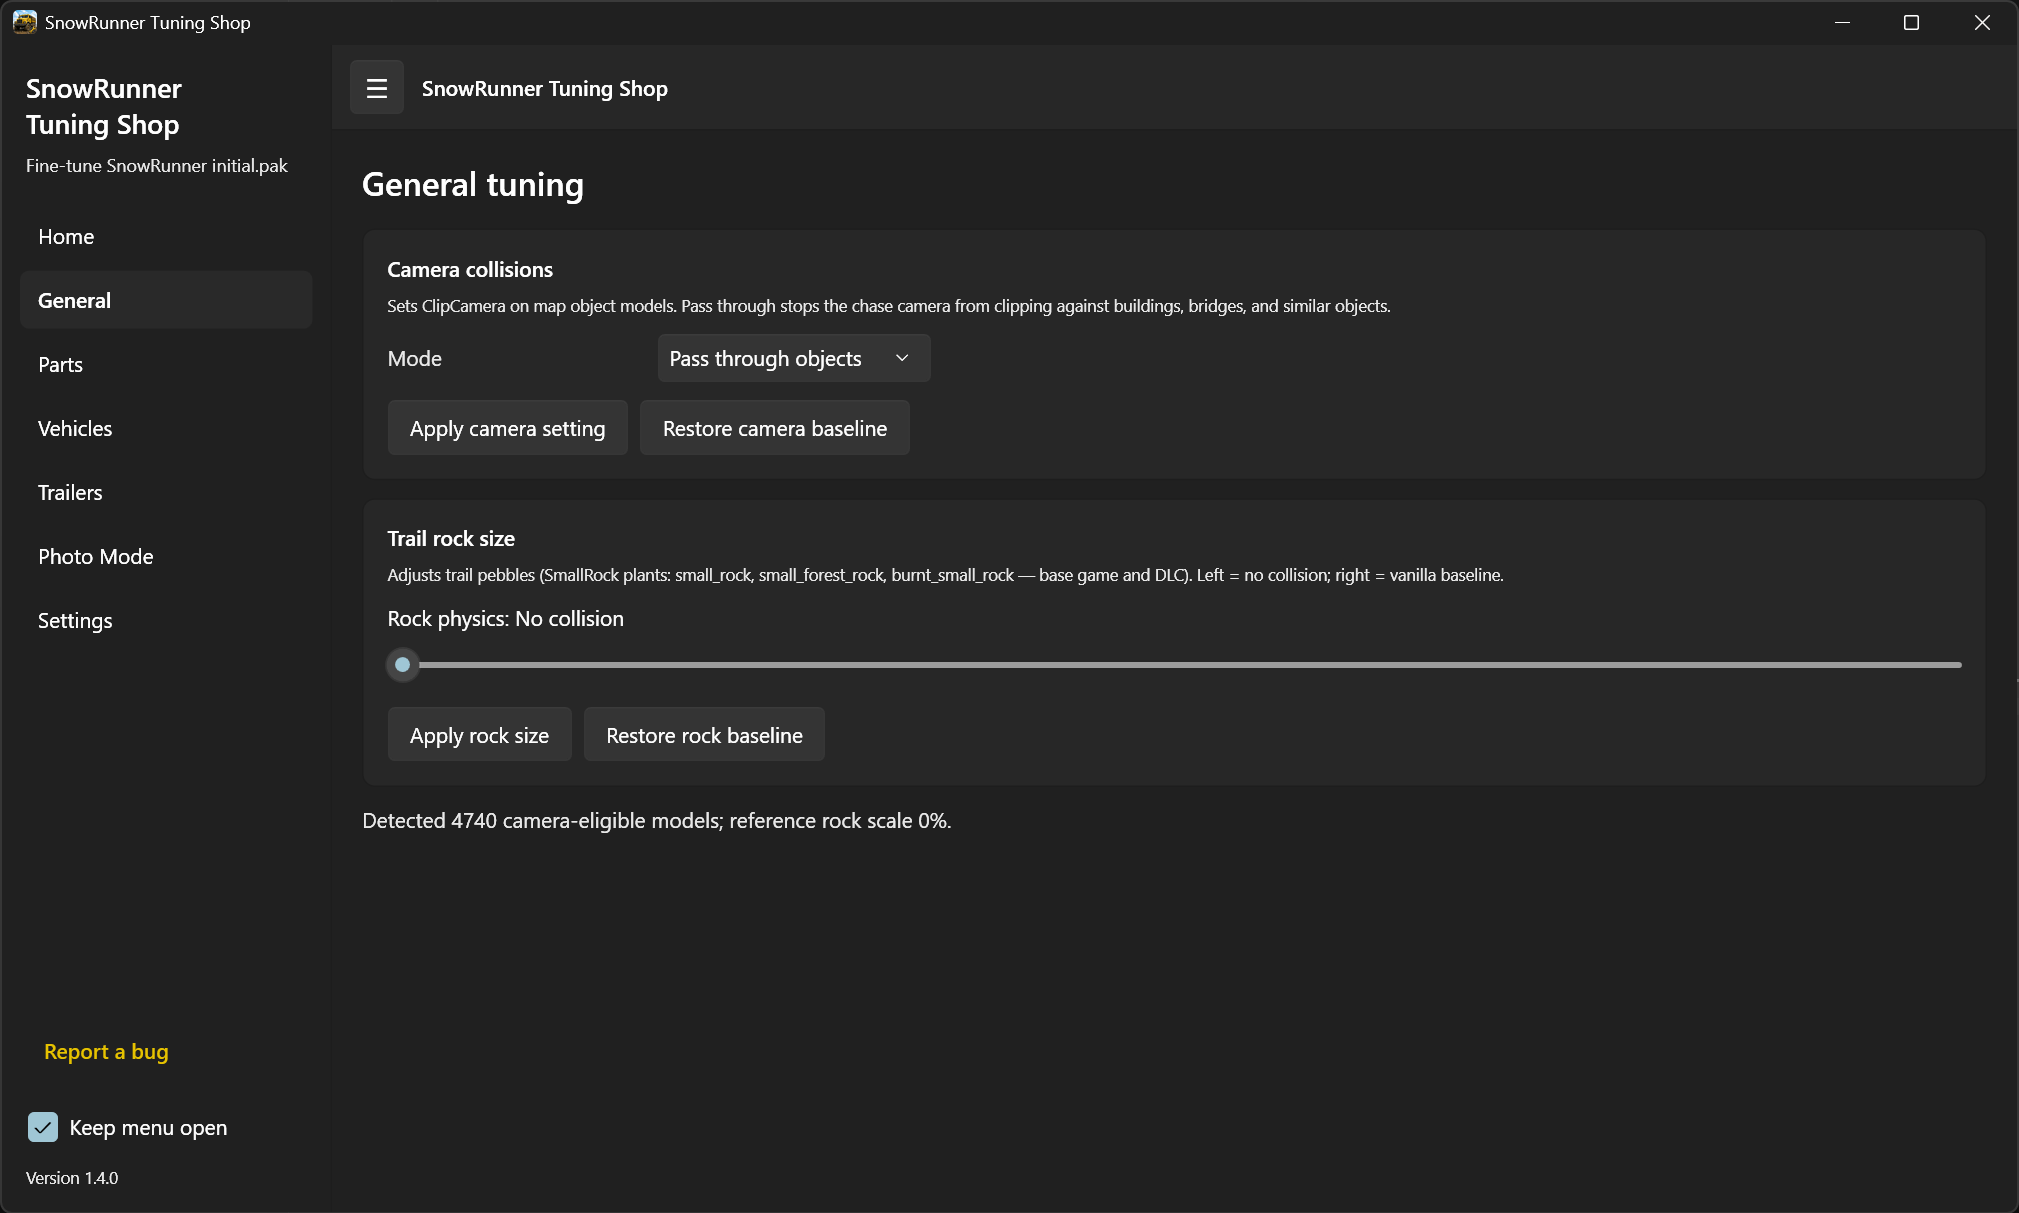
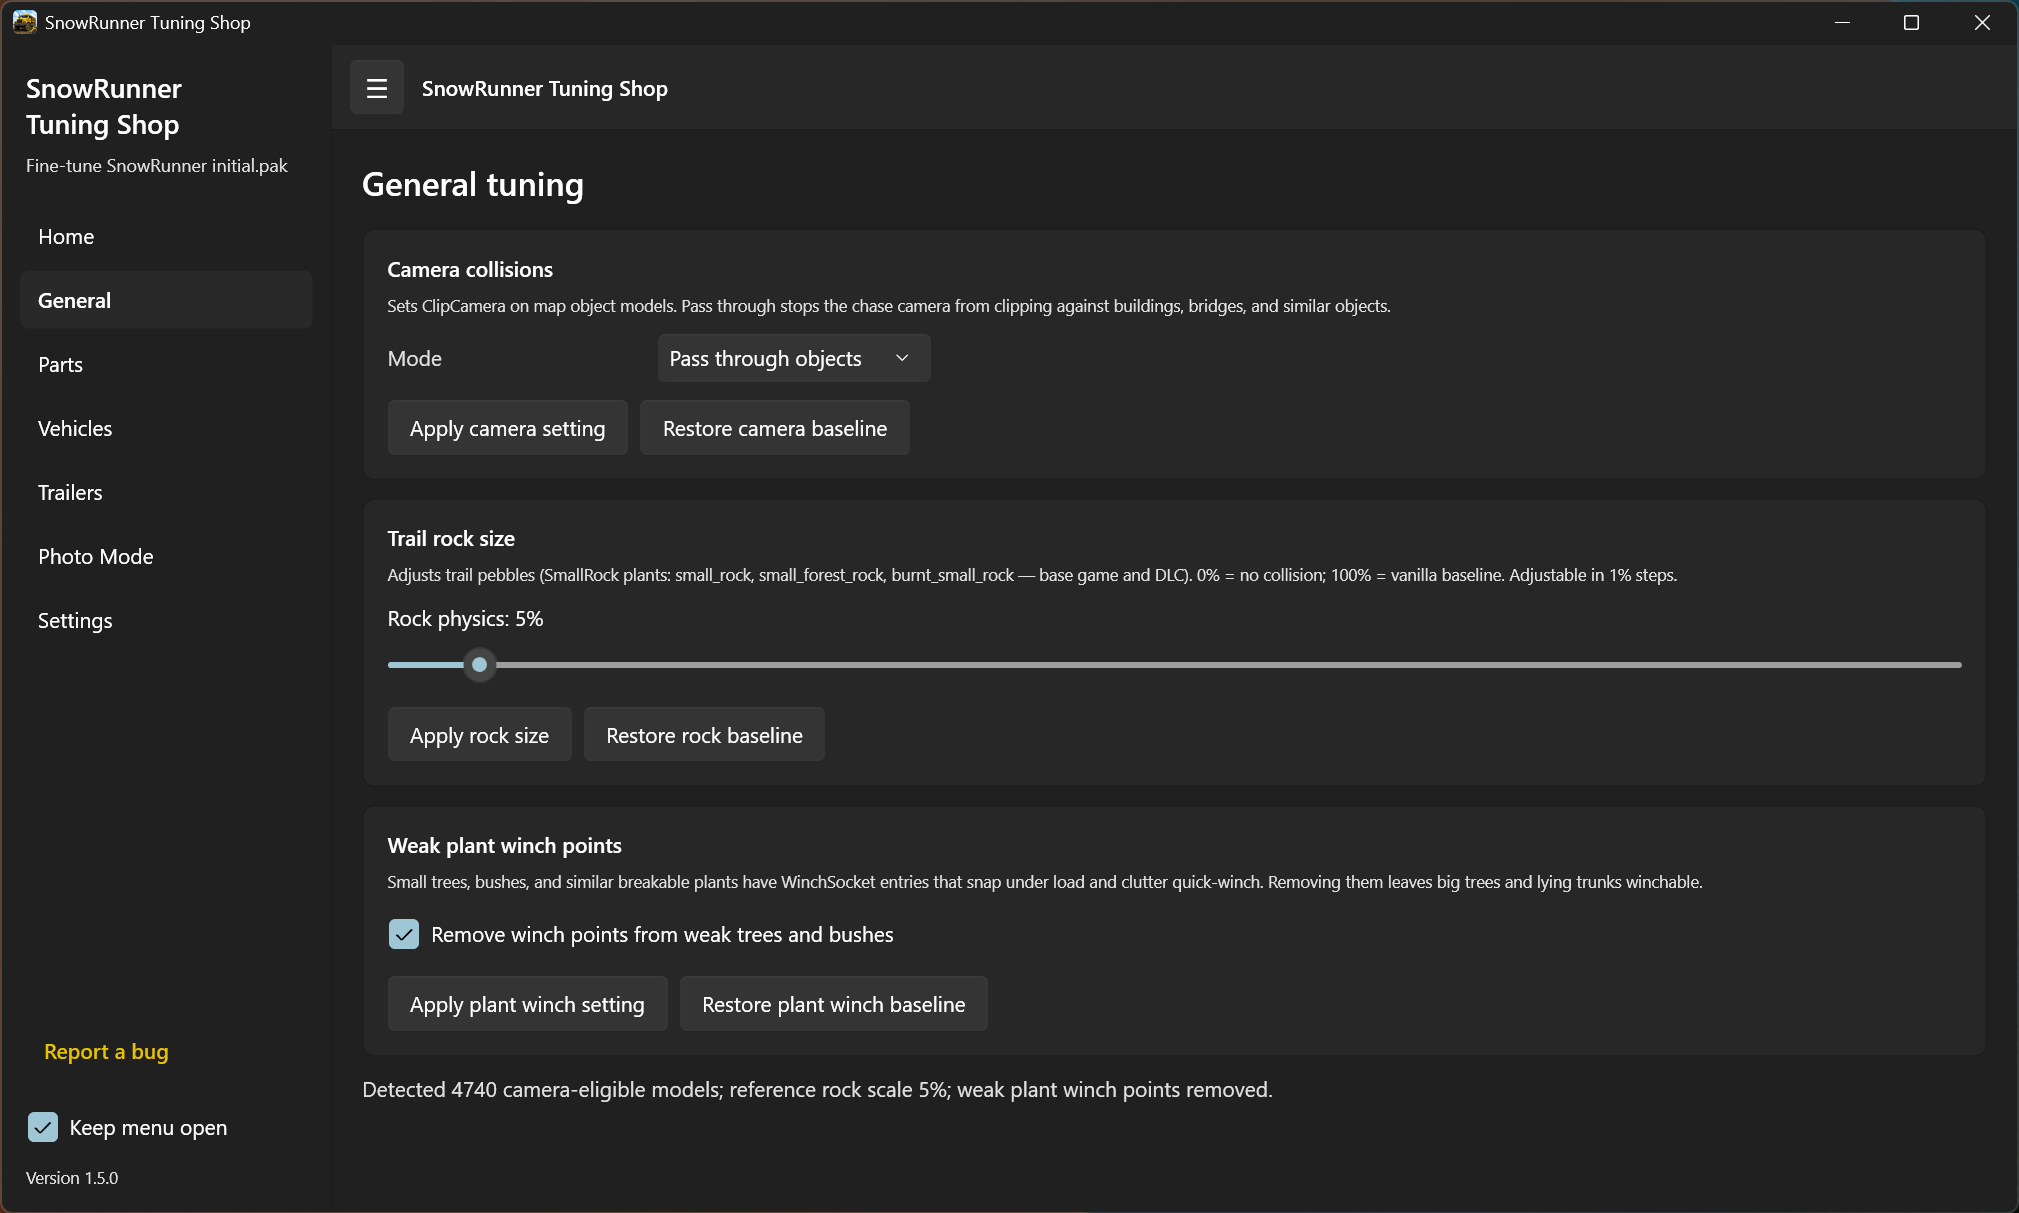
Release 1.5.0 and refresh the landing page for the stable cut.
Bump AppInfo, CHANGELOG, and Flatpak metainfo to 1.5.0; update site version badges, What's new copy (presets, wheels, Real Life warning), and Windows/Linux screenshots.

diff --git a/website/src/routes/index.tsx b/website/src/routes/index.tsx
@@ -10,8 +10,9 @@ import {
   ShieldCheck,
   Layers,
   ArrowRight,
-  Wrench,
   CircleAlert,
+  Archive,
+  Disc3,
 } from "lucide-react";
 
 import { Snowfall } from "@/components/Snowfall";
@@ -113,19 +114,19 @@ export const Route = createFileRoute("/")({
 
 const whatsNew = [
   {
+    icon: Archive,
+    title: "Home presets (.tsa)",
+    body: "Save, import, and apply tuning archives from Home — bundled starters plus your library. Lock a preset, track what is active, and start fresh with New after a baseline restore.",
+  },
+  {
+    icon: Disc3,
+    title: "Per-truck wheels",
+    body: "Optional larger CompatibleWheels sizes (capped at Scale 0.99), OffsetZ for extras, and a Wheel sets dialog to assign tire types — plus cabin height and front–rear weight balance on the vehicle page.",
+  },
+  {
     icon: CircleAlert,
-    title: "Trucks stay visible",
-    body: "Adding rear counter-steer no longer writes a broken `/ SteeringAngle` tag. Trucks like the White Western Star stay in garage and store; re-save repairs already-broken XML.",
-  },
-  {
-    icon: ShieldCheck,
-    title: "Rewrite safety in CI",
-    body: "A fixture matrix now round-trips multipliers and edge values through every major rewrite path and fails the build if a self-close slash lands before an attribute.",
-  },
-  {
-    icon: Wrench,
-    title: "Local pak smoke",
-    body: "Optional console runner walks your real baseline pak with a progress bar — structural checks only, not run by CI.",
+    title: "Real Life mod warning",
+    body: "Home shows a red banner when your working initial.pak contains the Real Life community mod, so you know Tuning Shop edits the same files and mixed baselines can conflict.",
   },
 ];
 
@@ -319,7 +320,7 @@ function PlatformShowcase({
             WHAT&apos;S NEW IN VERSION {APP_VERSION_STABLE}
           </h2>
           <p className="mt-4 max-w-2xl text-muted-foreground">
-            Safer axle writes so trucks stay in the garage — plus stricter rewrite checks before a bad slash can ship.
+            Presets you can share, deeper per-truck wheel tuning, and a clear heads-up when Real Life is in your pak.
           </p>
         </Reveal>
         <div className="mt-14 grid gap-6 md:grid-cols-2 lg:grid-cols-3">

diff --git a/website/src/lib/site.ts b/website/src/lib/site.ts
@@ -2,9 +2,9 @@
 export const SITE_URL = "https://gixx.github.io/snowrunner-tuning-shop/";
 export const SITE_NAME = "SnowRunner Tuning Shop";
 /** Latest Stable-channel release (full SemVer). */
-export const APP_VERSION_STABLE = "1.4.2";
+export const APP_VERSION_STABLE = "1.5.0";
 /** Latest Beta-channel release (numbered prerelease). */
-export const APP_VERSION_BETA = "1.5.0-beta.3";
+export const APP_VERSION_BETA = "1.5.0";
 export const SITE_TITLE = "SnowRunner Tuning Shop — Tune the Game's Default Settings";
 export const SITE_DESCRIPTION =
   "Free, open-source desktop tool to fine-tune SnowRunner's initial.pak: engines, gearboxes, suspensions, fuel, steering, AWD and diff lock — with a one-click baseline restore. Windows and Linux.";

diff --git a/src/SnowRunnerTuningShop.Core/AppInfo.cs b/src/SnowRunnerTuningShop.Core/AppInfo.cs
@@ -2,7 +2,7 @@ namespace SnowRunnerTuningShop.Core;
 
 public static class AppInfo
 {
-    public const string Version = "1.5.0-beta.3";
+    public const string Version = "1.5.0";
 
     public const string GitHubOwner = "Gixx";
     public const string GitHubRepo = "snowrunner-tuning-shop";

diff --git a/CHANGELOG.md b/CHANGELOG.md
@@ -11,8 +11,31 @@ Releases are published from `v*` git tags via GitHub Actions ([Releases](https:/
 
 ## [Unreleased]
 
+---
+
+## [1.5.0] — 2026-10-05
+
+Stable release of the 1.5 line (Home Presets, vehicle wheels tuning, center of mass / weight balance, and related beta notes below).
+
 ### Added
-- **Home:** red warning banner when the working `initial.pak` contains the Real Life community mod (`Real Life Mod` marker in string tables), so mixed edits are less surprising.
+- **Home → Presets:** manage `.tsa` tuning archives (bundled + user library) with Apply, Export, Import, Save as new, Delete, and New (restore working pak to baseline and start an untitled workspace). WPF + Avalonia.
+- **Preset metadata:** Author, description, and optional Lock (locked presets cannot be exported; deleting them restores the baseline).
+- **Preset detail panel:** selecting a list row shows name, author, version, and description on the right; deselecting restores the tuning-categories stats.
+- **Active / changed tracking:** Home marks the applied preset and shows when the saved profile diverges; New clears the active preset and shows an `[unnamed]` row.
+- **Installer:** optional `.tsa` file association so double-click imports a preset into the app.
+- **Vehicles → Center of mass:** cabin height Low–High slider (`CenterOfMassOffset` Y) for tippiness.
+- **Vehicles → Weight balance:** Front–Rear slider that shifts cabin and chassis center of mass together along X.
+- **General → Weak plant winch points:** option to remove `WinchSocket` from weak trees/bushes so quick-winch prefers big trees and lying trunks.
+- **Vehicles → Wheels:** per-truck optional larger CompatibleWheels sizes (up to +2 steps from baseline, capped at Scale 0.99), OffsetZ accordion for extras, Wheel sets dialog, and optional disable of `MaxWheelRadiusWithoutSuspension` (WPF + Avalonia).
+- **Parts → Gearbox / Tires:** global **Damage Capacity** multipliers (WPF + Avalonia).
+- **Home:** red warning banner when the working `initial.pak` contains the Real Life community mod (`Real Life Mod` marker in string tables), localized in all shipped UI languages.
+
+### Changed
+- **Home Overview** replaced by the Presets workspace (tuning-category coverage still available when no preset is selected).
+- **General → Rock size:** slider is continuous 0–100% in 1% steps (was five presets).
+- **Vehicles → Global multipliers:** removed Front / Rear steer preset sliders (per-axle steering on the detail page remains).
+- **Parts → Global multipliers:** Engine, Gearbox, Suspension, Tires, Winch, and Crane gain a Store price slider (Add-ons already had one).
+- **Localization:** filled missing UI strings across all shipped languages vs `en.json`.
 
 ### Fixed
 - **Vehicles save:** trucks whose working XML has no `CompatibleWheels` types (e.g. Real Life Pacific P16) no longer block non-wheel edits such as region-free.
@@ -443,7 +466,8 @@ Releases are published from `v*` git tags via GitHub Actions ([Releases](https:/
 
 ---
 
-[Unreleased]: https://github.com/Gixx/snowrunner-tuning-shop/compare/v1.5.0-beta.3...HEAD
+[Unreleased]: https://github.com/Gixx/snowrunner-tuning-shop/compare/v1.5.0...HEAD
+[1.5.0]: https://github.com/Gixx/snowrunner-tuning-shop/releases/tag/v1.5.0
 [1.5.0-beta.3]: https://github.com/Gixx/snowrunner-tuning-shop/releases/tag/v1.5.0-beta.3
 [1.5.0-beta.2]: https://github.com/Gixx/snowrunner-tuning-shop/releases/tag/v1.5.0-beta.2
 [1.5.0-beta.1]: https://github.com/Gixx/snowrunner-tuning-shop/releases/tag/v1.5.0-beta.1
